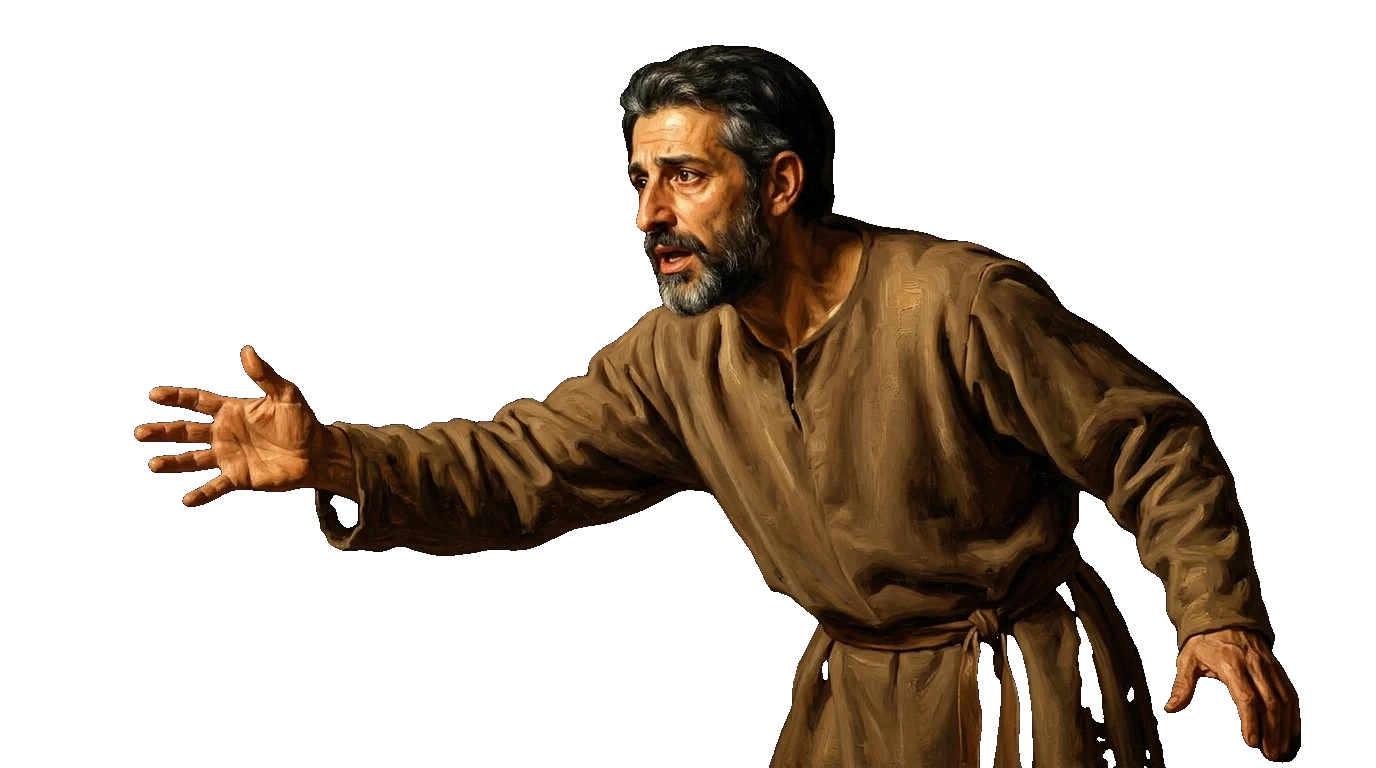
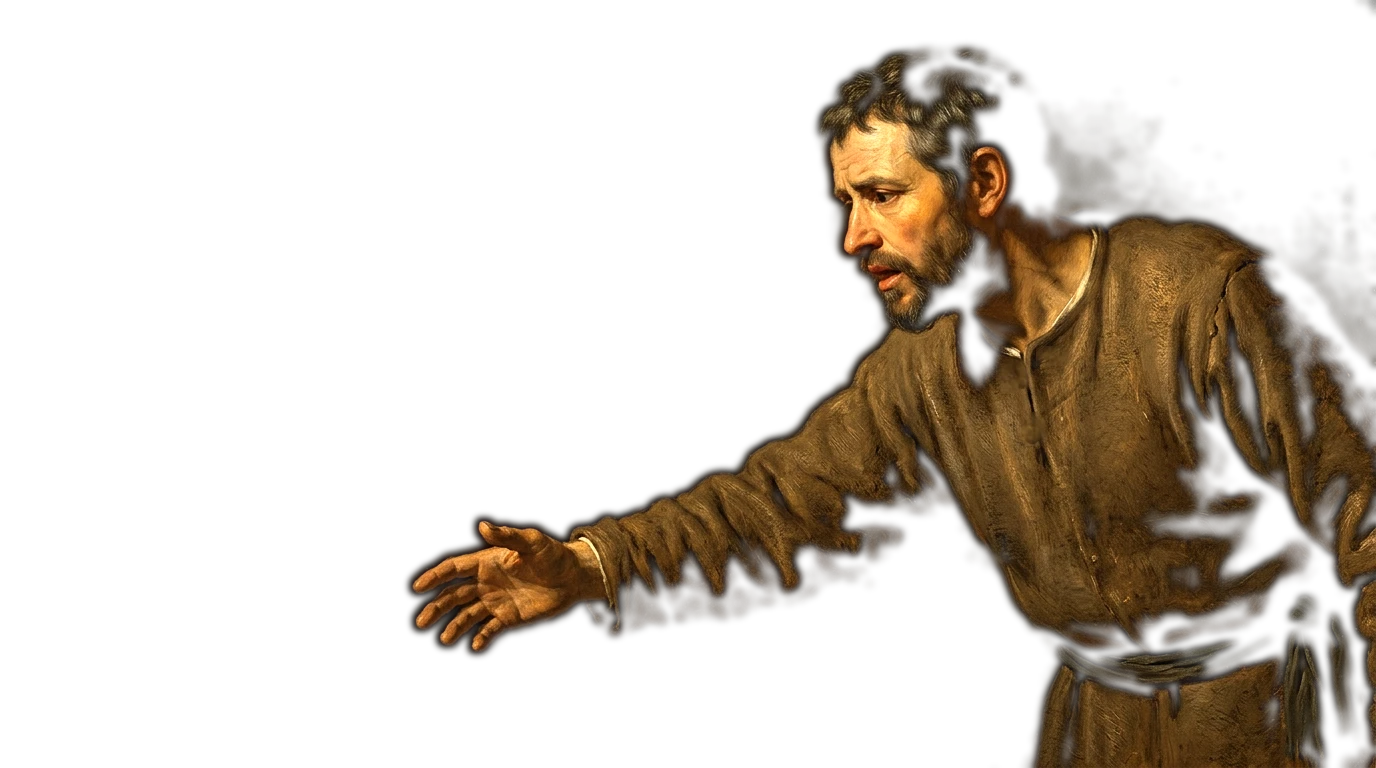
09: regenerated Joseph reaching for Jacob's hand (gaze on the hand), cut out
Claude-Session: https://claude.ai/code/session_016t4pfnS8RRa6Q4vN1upjTj

diff --git a/_handoff09/b09p/scenes09p.js b/_handoff09/b09p/scenes09p.js
@@ -217,7 +217,7 @@ S(11.95,17.15,(v)=>{const u=camE((v-12.05)/5.2);const z=lerp(.832,.875,u),cxI=le
   tagAt('FIRSTBORN',300,440,360,300,1,false);tagAt('YOUNGER',1620,440,1000,340,1+.2*sm(tYg,tYg+.4,v),true);
   const [hx,hy]=P(872,248);{const [sx,sy]=P(600,318);ink(bez([sx,sy],[(sx+hx)/2,sy-210],[hx-10,hy-58]),eio(sm(tRH,tRH+1.1,v)),1,{arrow:true,w:6,head:30});}});
 // ---------- 0:17 · the boys' father
-S(17.15,19.75,(v)=>{const u=camE((v-17.25)/2.65);{const s2=H/768*.5;draw('02_crossing',-70+10*u,1060-759*s2,s2,.9);}const sc=H/768*.7*(1+.05*u);const [ox,oy]=at(735,185,1430-40*u,500,sc);warm(1400,560,600,1);draw('b_joseph',ox,oy,sc);bokeh(v,1,7,6);
+S(17.15,19.75,(v)=>{const u=camE((v-17.25)/2.65);{const s2=H/768*.5;draw('02_crossing',-70+10*u,1060-759*s2,s2,.9);}const sc=H/768*.7*(1+.05*u);const [ox,oy]=at(930,150,1430-40*u,500,sc);warm(1400,560,600,1);draw('b_joseph',ox,oy,sc);bokeh(v,1,7,6);
   cap('JOSEPH, THE BOYS’ FATHER',1330,150,52,ap(v,17.3,.4),true);lx('Jacob’s own son,',1330,250,76,v,18.6);});
 // ---------- 0:20 · he grabs Jacob's hand
 S(19.75,21.55,(v)=>{const u=eio(clamp((v-19.55)/2.95));const z=lerp(.95,1.55,u);const sc=H/768*z;const [ox,oy]=at(790,262,960,lerp(600,540,u),sc);warm(960,560,700,.8);draw('02b_grabs',ox,oy,sc);bokeh(v,1,43,5);
@@ -226,7 +226,7 @@ S(19.75,21.55,(v)=>{const u=eio(clamp((v-19.55)/2.95));const z=lerp(.95,1.55,u);
   const g2=X.createLinearGradient(0,820,0,1080);g2.addColorStop(0,'rgba(5,4,3,0)');g2.addColorStop(1,'rgba(5,4,3,.9)');X.fillStyle=g2;X.fillRect(0,820,W,260);X.restore();
   lx('He grabs Jacob’s hand to move it.',960,950,70,v,19.9);});
 // ---------- 0:22 · "Not so, father, this one is the firstborn"
-S(21.55,24.75,(v)=>{const z=lerp(1.25,1.31,camE((v-22.3)/2.6));const sc=H/768*z;const [ox,oy]=at(735,185,1450,400,sc);warm(1450,420,700,1);draw('b_joseph',ox,oy,sc);blackL(860,1200);bokeh(v,1,47,6);
+S(21.55,24.75,(v)=>{const z=lerp(1.25,1.31,camE((v-22.3)/2.6));const sc=H/768*z;const [ox,oy]=at(930,150,1450,400,sc);warm(1450,420,700,1);draw('b_joseph',ox,oy,sc);blackL(860,1200);bokeh(v,1,47,6);
   vSide(ap(v,21.7,.35),600,'GENESIS 48:18','לֹא־כֵן אָבִי כִּי־זֶה הַבְּכֹר',['הַבְּכֹר'],[[['“Not so, father,',0]],[['this one is the ',0],['firstborn',1],['.”',0]]],{cy:540,hs:100,es:66});});
 // ---------- 0:25 · "and Jacob says, 'I know, my son, I know'" ----------
 S(24.75,28.65,(v)=>{const k2=C('i know',27);const z=1.04+.06*eio(sm(24.9,28.75,v))+.06*eio(sm(k2,k2+1,v));pic('03_jacob_closeup',v,24.9,28.8,{side:'L',tx:420,z,push:0});
@@ -397,7 +397,7 @@ S(207.15,213.15,(v)=>{BGd();const xs=[520,960,1400],tc=[207.3,208.7,211.4];
 S(213.15,216.95,(v)=>{pic('31_joseph_sold',v,213.15,217,{side:'R',tx:1300,drift:-50});const c=560;
   lx('They sell him',c,430,66,v,213.3);lx('as a slave instead,',c,515,66,v,213.8);lx('but *Joseph* survives.',c,625,66,v,215.5);});
 // 3:37 · years later: the boys' father
-S(216.95,223.15,(v)=>{const u=camE((v-217.1)/6);{const s2=H/768*.5;draw('02_crossing',-70+10*u,1060-759*s2,s2,.9);}const s=H/768*.7*(1+.06*u);const [ox,oy]=at(735,185,1430-40*u,500,s);warm(1400,560,600,1);draw('b_joseph',ox,oy,s);bokeh(v,1,61,6);
+S(216.95,223.15,(v)=>{const u=camE((v-217.1)/6);{const s2=H/768*.5;draw('02_crossing',-70+10*u,1060-759*s2,s2,.9);}const s=H/768*.7*(1+.06*u);const [ox,oy]=at(930,150,1430-40*u,500,s);warm(1400,560,600,1);draw('b_joseph',ox,oy,s);bokeh(v,1,61,6);
   nameH('יוֹסֵף','JOSEPH',400,190,ap(v,217.2,.35),86,44);lx('Years later,',540,335,60,v,217.1);ln('the boys’ father',400,300,60,v,218.2);lx('from the start of this story,',540,495,60,v,219.1);lx('the one who grabs Jacob’s hand.',540,575,60,v,221.0);});
 // 3:43 · Manasseh and Ephraim
 S(223.15,227.85,(v)=>{warm(960,560,820,.8);const z=lerp(.78,.81,camE((v-223.3)/5));bed('00_before',v,z);
